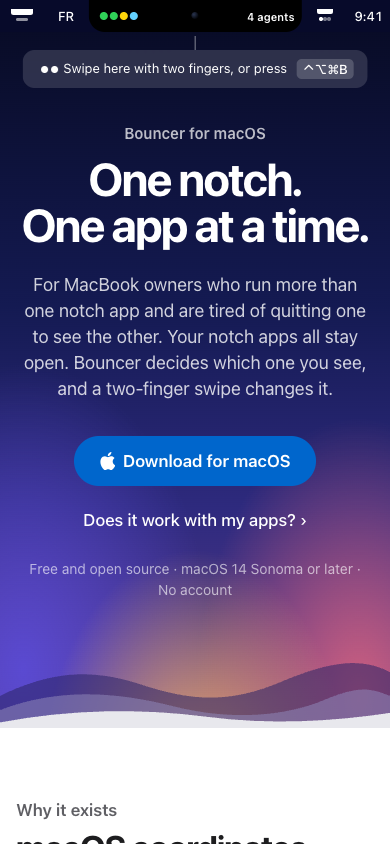
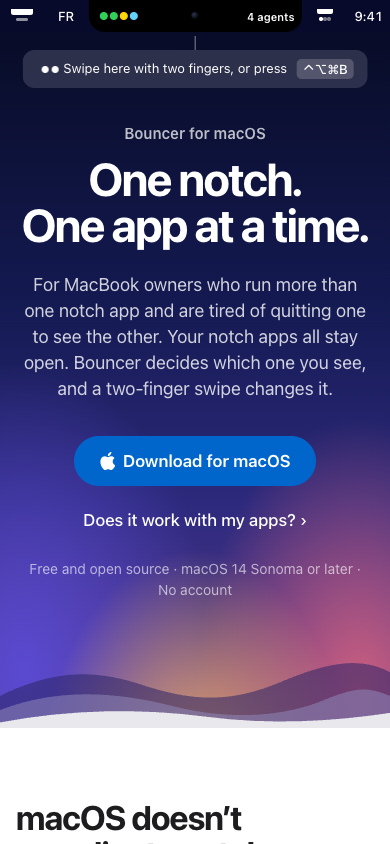
fix(landing): composition variée, titres de section sur un seul bord
Tous les h2 partent du bord gauche de .wrap. Ce qui varie, c'est dessous :
problème en texte à gauche et scènes en face ; gestes avec le chapo en
vis-à-vis du titre et la grille pleine largeur ; moteur avec les chiffres
empilés à gauche, le texte à droite, puis la frise pleine largeur ;
compatibilité en en-tête étroit sur tableau pleine largeur ; installation en
colonne étroite calée à gauche, l'encoche au-dessus des deux façons. À
390 px tout se replie en une colonne, titre en premier.

Captures apres-* refaites, les précédentes gardées en avant-retouches-*.

Changed region(s): [[0.0308, 0.955, 0.6154, 1.0], [0.6462, 0.9858, 0.7385, 1.0]]

diff --git a/landing/app/globals.css b/landing/app/globals.css
@@ -147,8 +147,19 @@ p+p{margin-top:14px}
 .lede+.suite{margin-top:22px}
 strong{font-weight:600}
 
-/* Problème : le conflit dessiné en éclaté */
+/* Composition. Tous les titres partent du bord gauche de .wrap ; ce qui varie,
+   c'est ce qu'il y a dessous. .cols : texte à gauche, visuel en face.
+   .inv : le visuel passe à gauche, le titre reste au-dessus, sur le même bord.
+   .head : titre et chapo en vis-à-vis, le contenu pleine largeur dessous. */
 .cols{display:grid;grid-template-columns:5fr 6fr;gap:64px;align-items:center}
+.inv{align-items:start;margin-top:56px}
+.inv>:first-child{grid-column:2}
+.inv>:last-child{grid-column:1;grid-row:1}
+.inv .lede{margin-top:0}
+.head{display:grid;grid-template-columns:7fr 5fr;gap:64px;align-items:end}
+.head .lede{margin-top:0}
+
+/* Problème : le conflit dessiné en éclaté */
 .scenes{display:grid;gap:16px}
 .scene{--nw:132px;--nh:30px;position:relative;background:#101018;border-radius:22px;height:178px;overflow:hidden;color:#fff}
 .scene .strip{height:var(--nh);background:#1f1f2b;display:flex;justify-content:space-between;align-items:center;padding:0 16px;font:500 12px var(--sys);color:#d1d1d6}
@@ -190,7 +201,8 @@ strong{font-weight:600}
 /* Moteur : tuile sombre, chiffres, et la règle « on avant off » en frise */
 .dark{background:var(--night);color:#f5f5f7}
 .dark .lede{color:#a1a1a6}
-.specs{display:grid;grid-template-columns:repeat(3,1fr);gap:32px;margin:64px 0 0;border-top:1px solid #424245;padding-top:40px}
+.specs{display:grid;border-top:1px solid #424245}
+.spec{padding:28px 0;border-bottom:1px solid #424245}
 .spec b{display:block;font:700 clamp(44px,5.4vw,68px)/1 var(--disp);letter-spacing:-.04em;font-variant-numeric:tabular-nums}
 .spec b small{font-size:.5em;letter-spacing:-.01em;margin-left:4px}
 .spec span{display:block;margin-top:12px;font-weight:600}
@@ -208,7 +220,7 @@ strong{font-weight:600}
 .seg.old{left:0;width:74%;background:#64d2ff;color:#04293a}
 .cut{position:absolute;top:-10px;bottom:-30px;left:calc(150px + 16px + (100% - 166px)*.66);border-left:1.5px dashed #ffd60a}
 .cut span{position:absolute;left:8px;bottom:0;font-size:12px;color:#ffd60a;white-space:nowrap}
-.pair{display:grid;grid-template-columns:1fr 1fr;gap:48px;margin-top:64px}
+.pair{display:grid;gap:32px;margin-top:40px}
 .pair p{color:#c7c7cc;margin-top:10px}
 
 /* Compatibilité */
@@ -227,14 +239,14 @@ td b{font-weight:600}
 .bench{font-size:14px;color:var(--muted);margin-top:18px;max-width:48em}
 .bench a{display:inline-flex;min-height:44px;align-items:center}
 
-/* Fin de page : l'encoche revient, deux façons d'installer de même poids */
-.install{text-align:center;padding-bottom:120px}
-.install h2,.install .lede{margin-inline:auto}
-.closer{--nw:150px;--nh:32px;position:relative;max-width:620px;height:120px;margin:0 auto 56px;border-radius:26px 26px 0 0;overflow:hidden;
+/* Fin de page, en colonne étroite : le titre, puis l'encoche revient au-dessus
+   des deux façons d'installer, de même poids */
+.install{padding-bottom:120px}
+.closer{--nw:150px;--nh:32px;position:relative;max-width:760px;height:120px;margin:40px 0 0;border-radius:26px 26px 0 0;overflow:hidden;
   background:radial-gradient(70% 120% at 50% 130%,#5a4ad1 0,rgba(90,74,209,0) 70%),linear-gradient(#070a22,#1b1d5e);
   -webkit-mask:linear-gradient(#000 55%,transparent);mask:linear-gradient(#000 55%,transparent)}
 .closer .pill{opacity:1;width:calc(var(--nw)*var(--w));pointer-events:none}.closer .pill>*{opacity:1}
-.ways2{display:grid;grid-template-columns:repeat(2,minmax(0,1fr));gap:16px;max-width:760px;margin:44px auto 0;text-align:left}
+.ways2{display:grid;grid-template-columns:repeat(2,minmax(0,1fr));gap:16px;max-width:760px;margin-top:8px}
 .opt{background:var(--paper);border-radius:22px;padding:26px;display:flex;flex-direction:column;gap:12px}
 .opt h3{font:600 19px/1.25 var(--disp)}
 .opt p{color:var(--muted);font-size:15px;flex:1}
@@ -242,9 +254,9 @@ td b{font-weight:600}
 .cmd{display:flex;align-items:center;gap:8px;background:var(--alu);border-radius:12px;padding:6px 6px 6px 14px}
 .cmd code{flex:1;min-width:0;font:13px var(--mono);overflow-x:auto;white-space:nowrap}
 .cmd button{min-height:44px;padding:0 16px;border-radius:9px;border:0;background:var(--ink);color:#fff;font-weight:600;cursor:pointer}
-.need{display:flex;flex-wrap:wrap;justify-content:center;gap:8px 28px;margin-top:32px;color:var(--muted);font-size:15px;list-style:none;padding:0}
+.need{display:flex;flex-wrap:wrap;gap:8px 28px;margin-top:32px;color:var(--muted);font-size:15px;list-style:none;padding:0}
 .need li::before{content:"✓ ";color:#1d7a3a;font-weight:700}
-details{max-width:760px;margin:20px auto 0;text-align:left;background:var(--paper);border-radius:18px;padding:0 24px}
+details{max-width:760px;margin-top:20px;background:var(--paper);border-radius:18px;padding:0 24px}
 summary{cursor:pointer;min-height:56px;display:flex;align-items:center;font-weight:600}
 details[open]{padding-bottom:22px}
 blockquote{margin:6px 0 14px;padding-left:14px;border-left:3px solid var(--hair);font-style:italic}
@@ -256,14 +268,16 @@ footer a{display:inline-flex;min-height:44px;align-items:center;text-decoration:
 
 @media (max-width:760px){
   section{padding:72px 0}
-  .cols{grid-template-columns:1fr;gap:40px}
+  .cols,.head{grid-template-columns:1fr;gap:40px}
+  .inv>:first-child,.inv>:last-child{grid-column:auto;grid-row:auto}
+  .inv{margin-top:18px}
+  .head{gap:0}.head .lede{margin-top:18px}
   .scene .tag:not(.r){display:none}
   .ways{grid-template-columns:1fr;gap:14px;margin-top:36px}.way{border-radius:22px}
   .way .menu{right:50%;transform:translateX(50%)}
   .way .arw{display:grid}
   /* La valeur doit tenir dans l'aile droite de la pastille, sinon l'encoche la mange. */
   .scene{--nw:100px}.scene .pill{font-size:11px}
-  .specs,.pair{grid-template-columns:1fr}
   .tl{padding:22px 18px;border-radius:18px}
   .lane{grid-template-columns:1fr;gap:6px}
   .cut{left:calc(100%*.66);bottom:-26px}

diff --git a/landing/components/landing.tsx b/landing/components/landing.tsx
@@ -165,8 +165,10 @@ export function Landing() {
             La même encoche à la même échelle, et le geste dessiné dessus. */}
         <section id="gesture">
           <div className="wrap">
-            <h2>{t("commandes.titre")}</h2>
-            <p className="lede">{t("commandes.chapo")}</p>
+            <div className="head">
+              <h2>{t("commandes.titre")}</h2>
+              <p className="lede">{t("commandes.chapo")}</p>
+            </div>
             <div className="ways">
               <Facon titre={t("commandes.swipeTitre")} corps={t("commandes.swipeCorps")} pastille={vitrine}>
                 <span className="touch">
@@ -209,24 +211,38 @@ export function Landing() {
         </section>
 
         {/* ---------------------------- LE MOTEUR -------------------------
-            Les trois chiffres mesurés, puis la règle « on avant off » en
-            frise : la nouvelle app est comptée à l'écran avant que l'ancienne
-            parte. */}
+            Les trois chiffres mesurés à gauche, le texte en face, puis la
+            règle « on avant off » en frise pleine largeur : la nouvelle app
+            est comptée à l'écran avant que l'ancienne parte. */}
         <section className="dark" id="engine">
           <div className="wrap">
             <h2>{t("moteur.titre")}</h2>
-            <p className="lede">{t("moteur.chapo")}</p>
-            <div className="specs">
-              {(["chiffre1", "chiffre2", "chiffre3"] as const).map((c) => (
-                <div key={c} className="spec">
-                  <b>
-                    {t(`moteur.${c}.valeur`)}
-                    <small>{t(`moteur.${c}.unite`)}</small>
-                  </b>
-                  <span>{t(`moteur.${c}.libelle`)}</span>
-                  <p>{t(`moteur.${c}.note`)}</p>
+            <div className="cols inv">
+              <div>
+                <p className="lede">{t("moteur.chapo")}</p>
+                <div className="pair">
+                  <div>
+                    <h3>{t("moteur.refusTitre")}</h3>
+                    <p>{t("moteur.refusCorps")}</p>
+                  </div>
+                  <div>
+                    <h3>{t("moteur.detectionTitre")}</h3>
+                    <p>{t("moteur.detectionCorps")}</p>
+                  </div>
                 </div>
-              ))}
+              </div>
+              <div className="specs">
+                {(["chiffre1", "chiffre2", "chiffre3"] as const).map((c) => (
+                  <div key={c} className="spec">
+                    <b>
+                      {t(`moteur.${c}.valeur`)}
+                      <small>{t(`moteur.${c}.unite`)}</small>
+                    </b>
+                    <span>{t(`moteur.${c}.libelle`)}</span>
+                    <p>{t(`moteur.${c}.note`)}</p>
+                  </div>
+                ))}
+              </div>
             </div>
             <div className="tl">
               <h3>{t("moteur.friseTitre")}</h3>
@@ -252,16 +268,6 @@ export function Landing() {
                 <span className="cut">
                   <span>{t("moteur.compte")}</span>
                 </span>
-              </div>
-            </div>
-            <div className="pair">
-              <div>
-                <h3>{t("moteur.refusTitre")}</h3>
-                <p>{t("moteur.refusCorps")}</p>
-              </div>
-              <div>
-                <h3>{t("moteur.detectionTitre")}</h3>
-                <p>{t("moteur.detectionCorps")}</p>
               </div>
             </div>
           </div>
@@ -323,12 +329,12 @@ export function Landing() {
             « n'a pas pu vérifier » / « cannot verify », jamais « endommagée ». */}
         <section className="install" id="install">
           <div className="wrap">
+            <h2>{t("installation.titre")}</h2>
+            <p className="lede">{t("installation.chapo")}</p>
             <div className="closer" aria-hidden="true">
               <span className="notch" />
               <Pastille signe={va.signe} valeur={va.valeur} w={2.15} />
             </div>
-            <h2>{t("installation.titre")}</h2>
-            <p className="lede">{t("installation.chapo")}</p>
             <div className="ways2">
               <div className="opt">
                 <h3>{t("installation.zipTitre")}</h3>
